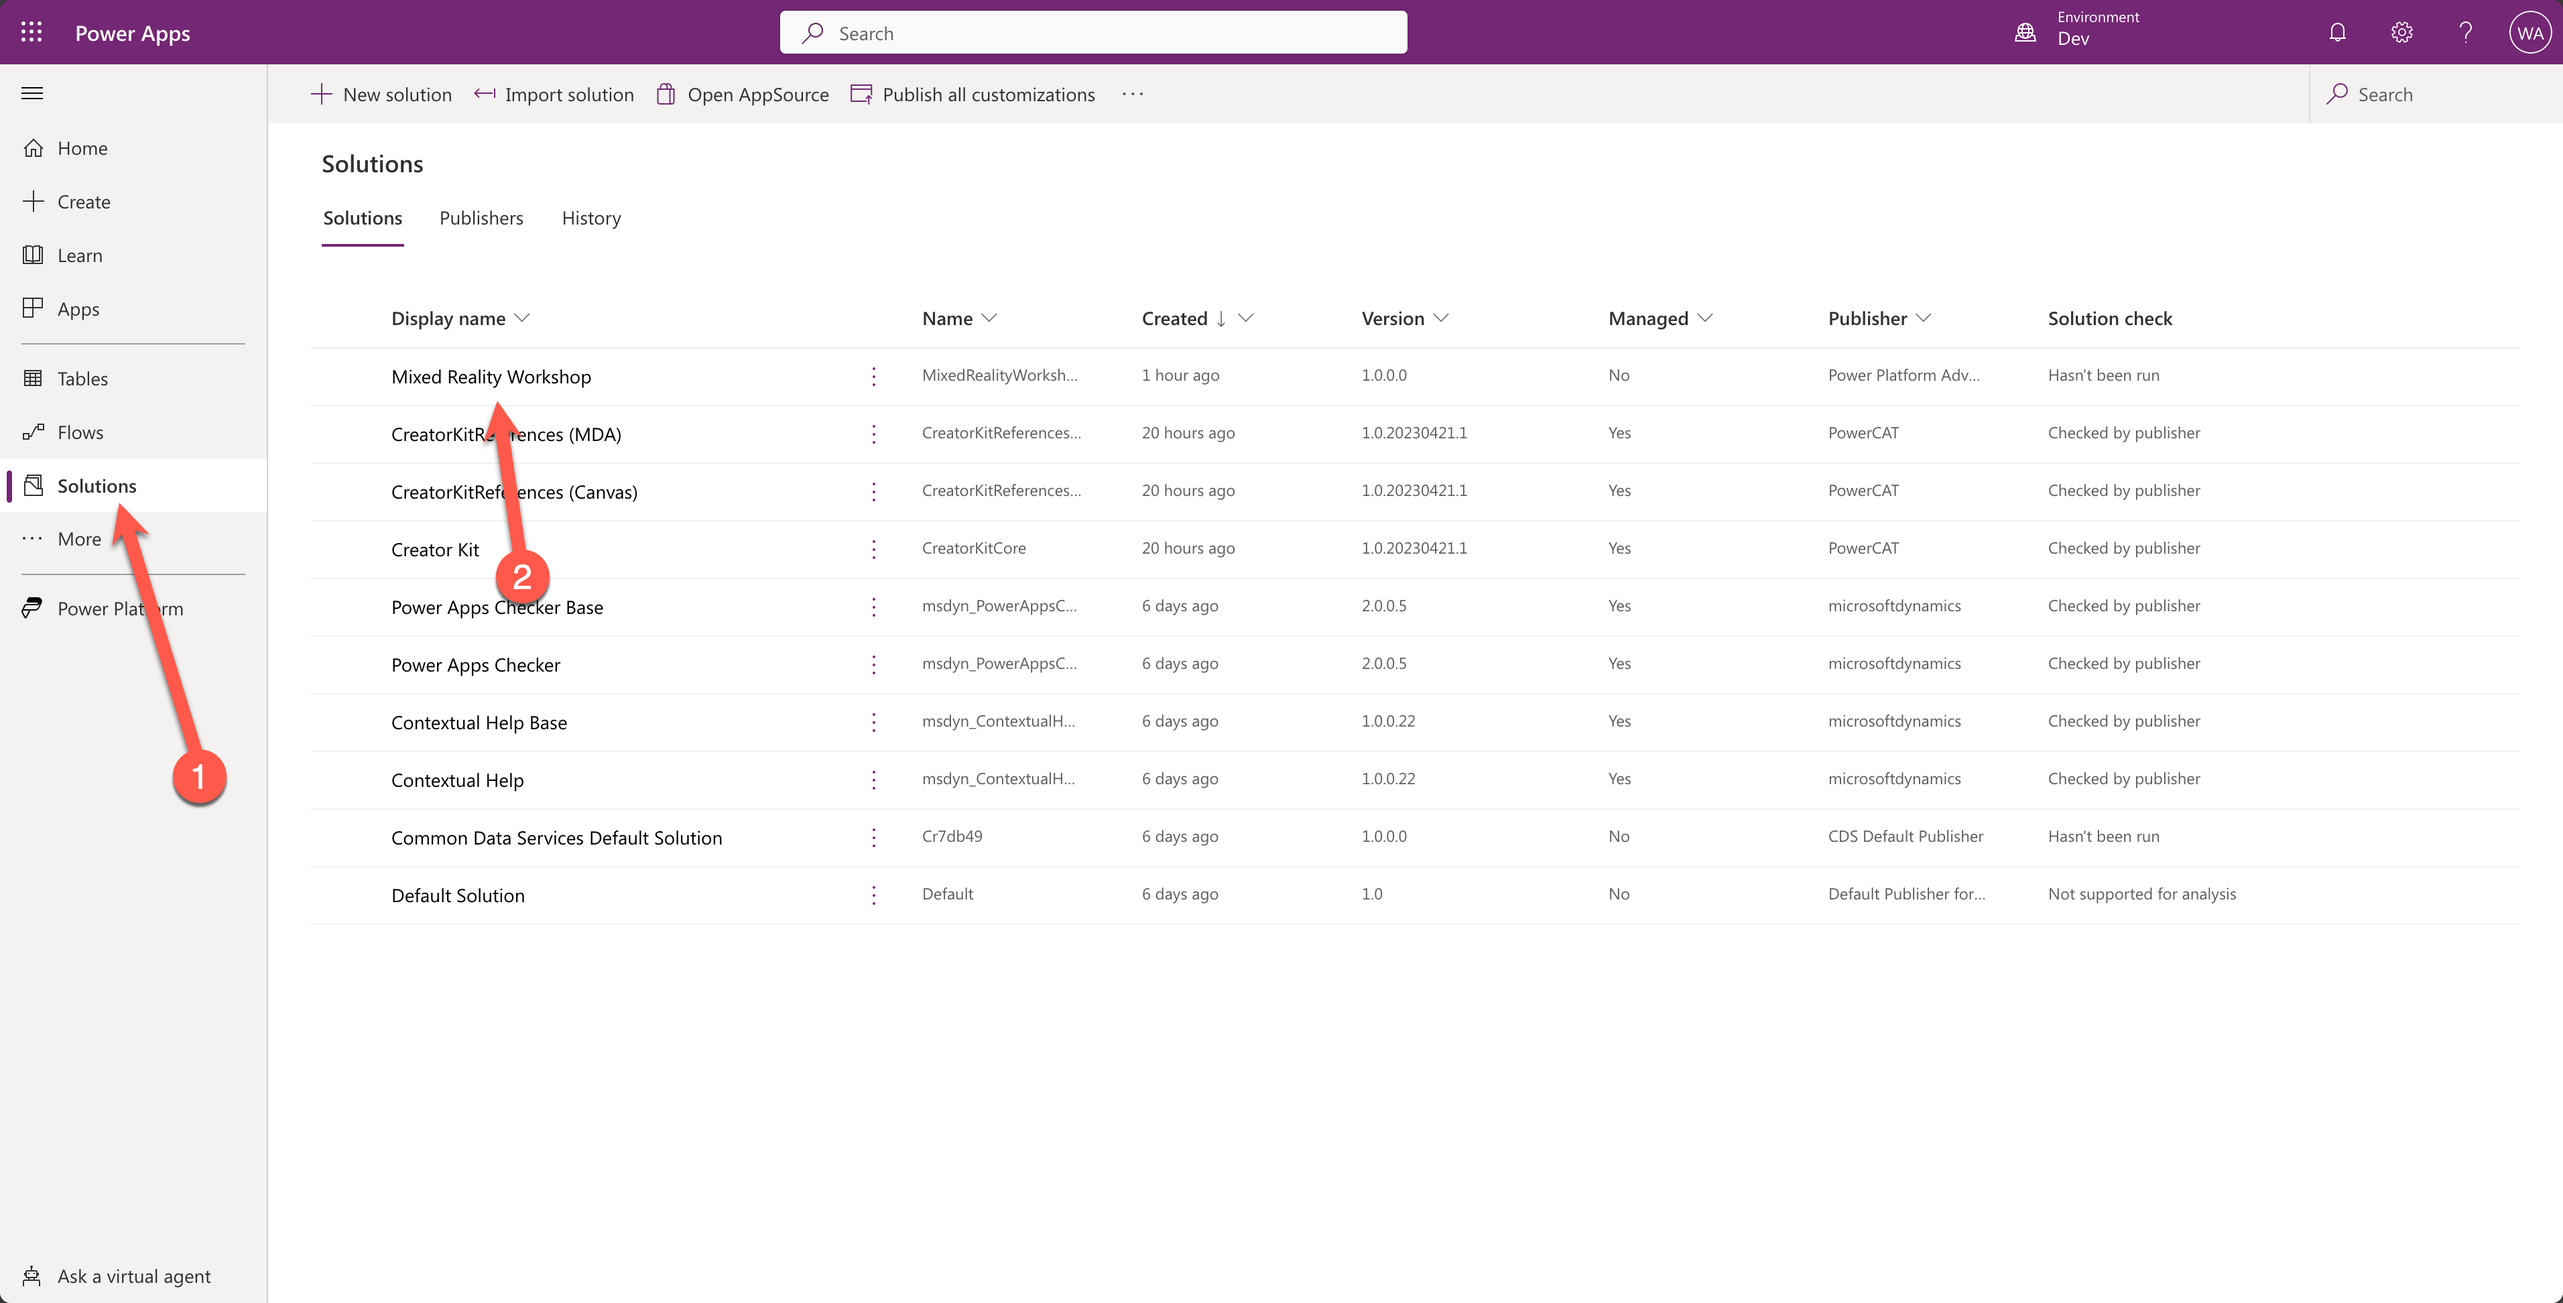
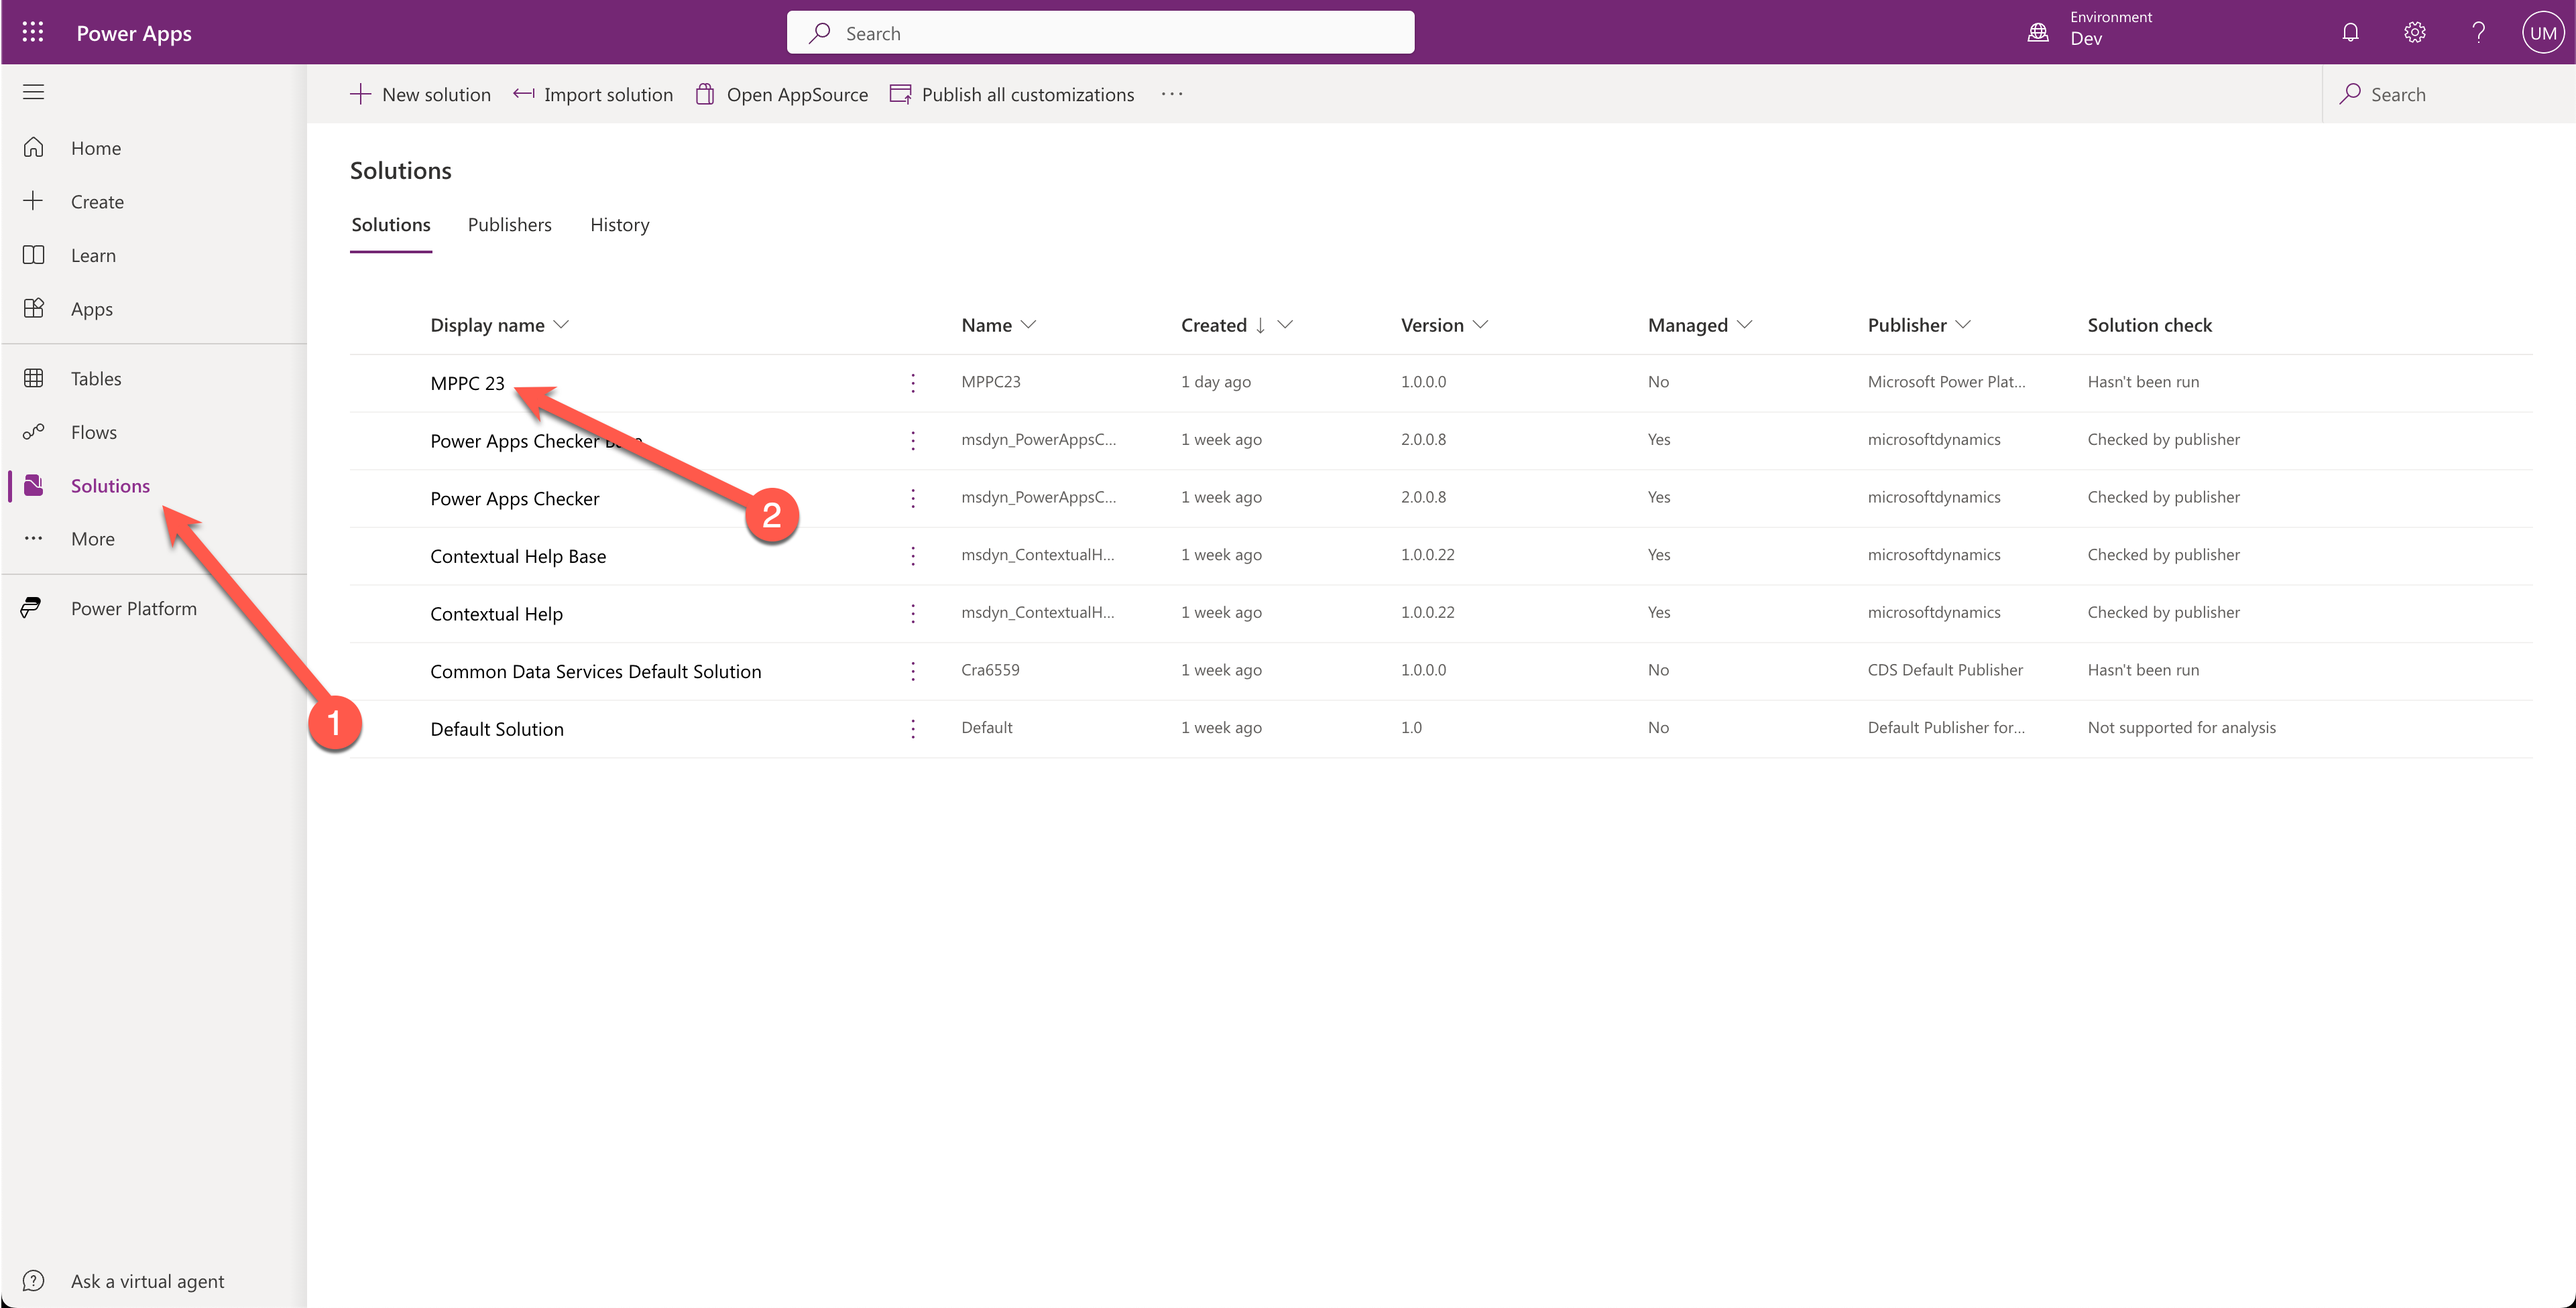
Update images lab 3 task 2

diff --git a/lab3/README.md b/lab3/README.md
@@ -180,25 +180,25 @@ Make sure to select the **+ New Deployment Stage** button again to add a second 
 
 1. Select **Save and Close** again to save the deployment stage as well
 
-## Task 2: Run the first deployment to the Test environment
+## Task 2: Run the first deployment to the QA environment
 
-In this task, you will deploy the solution we imported in lab 02 to the test and production environments. Let's start by our first deployment to test:
+In this task, you will deploy the solution we created in lab 2 to the QA and Prod environments. Let's start by our first deployment to QA:
 
 ### First deployment to QA
 
-In this lab, you have installed the pipelines for Power Platform solution and you have configured a pipeline and the stages that belong to it. But how does a maker deploy a solution from the `Dev` environment to the `QA` and `Prod` environments?
+In this lab, you have configured a pipeline and the stages that belong to it. But how does a maker deploy a solution from the `Dev` environment to the `QA` and `Prod` environments?
 
 1. Go to the [maker portal](https://make.powerapps.com)
 
-1. Make sure to select the `Dev` environment
+1. Make sure to select the **Dev** environment
 
-1. Go to Solutions via the left menu
+1. Go to **Solutions** via the left menu
 
-1. Select the `Mixed Reality Workshop` solution by selecting the display name
+1. Select the **MPPC 23** solution by selecting the display name
 
     ![](./assets/run-first-pipeline-dev.png)
 
-1. Select the rocket icon on the left
+1. Select the **rocket icon** on the left
 
     ![](./assets/run-first-pipeline-solution.png)
 
@@ -206,7 +206,7 @@ In this lab, you have installed the pipelines for Power Platform solution and yo
 
     ![](./assets/run-first-pipeline-overview.png)
 
-1. Select the purple `Deploy here` button. This will open a new sidebar which will give you the option to start your deployment now or plan your deployment for later
+1. Select the purple **Deploy here** button. This will open a new sidebar which will give you the option to start your deployment now or plan your deployment for later
 
     ![](./assets/run-first-pipeline-select-target.png)
 
